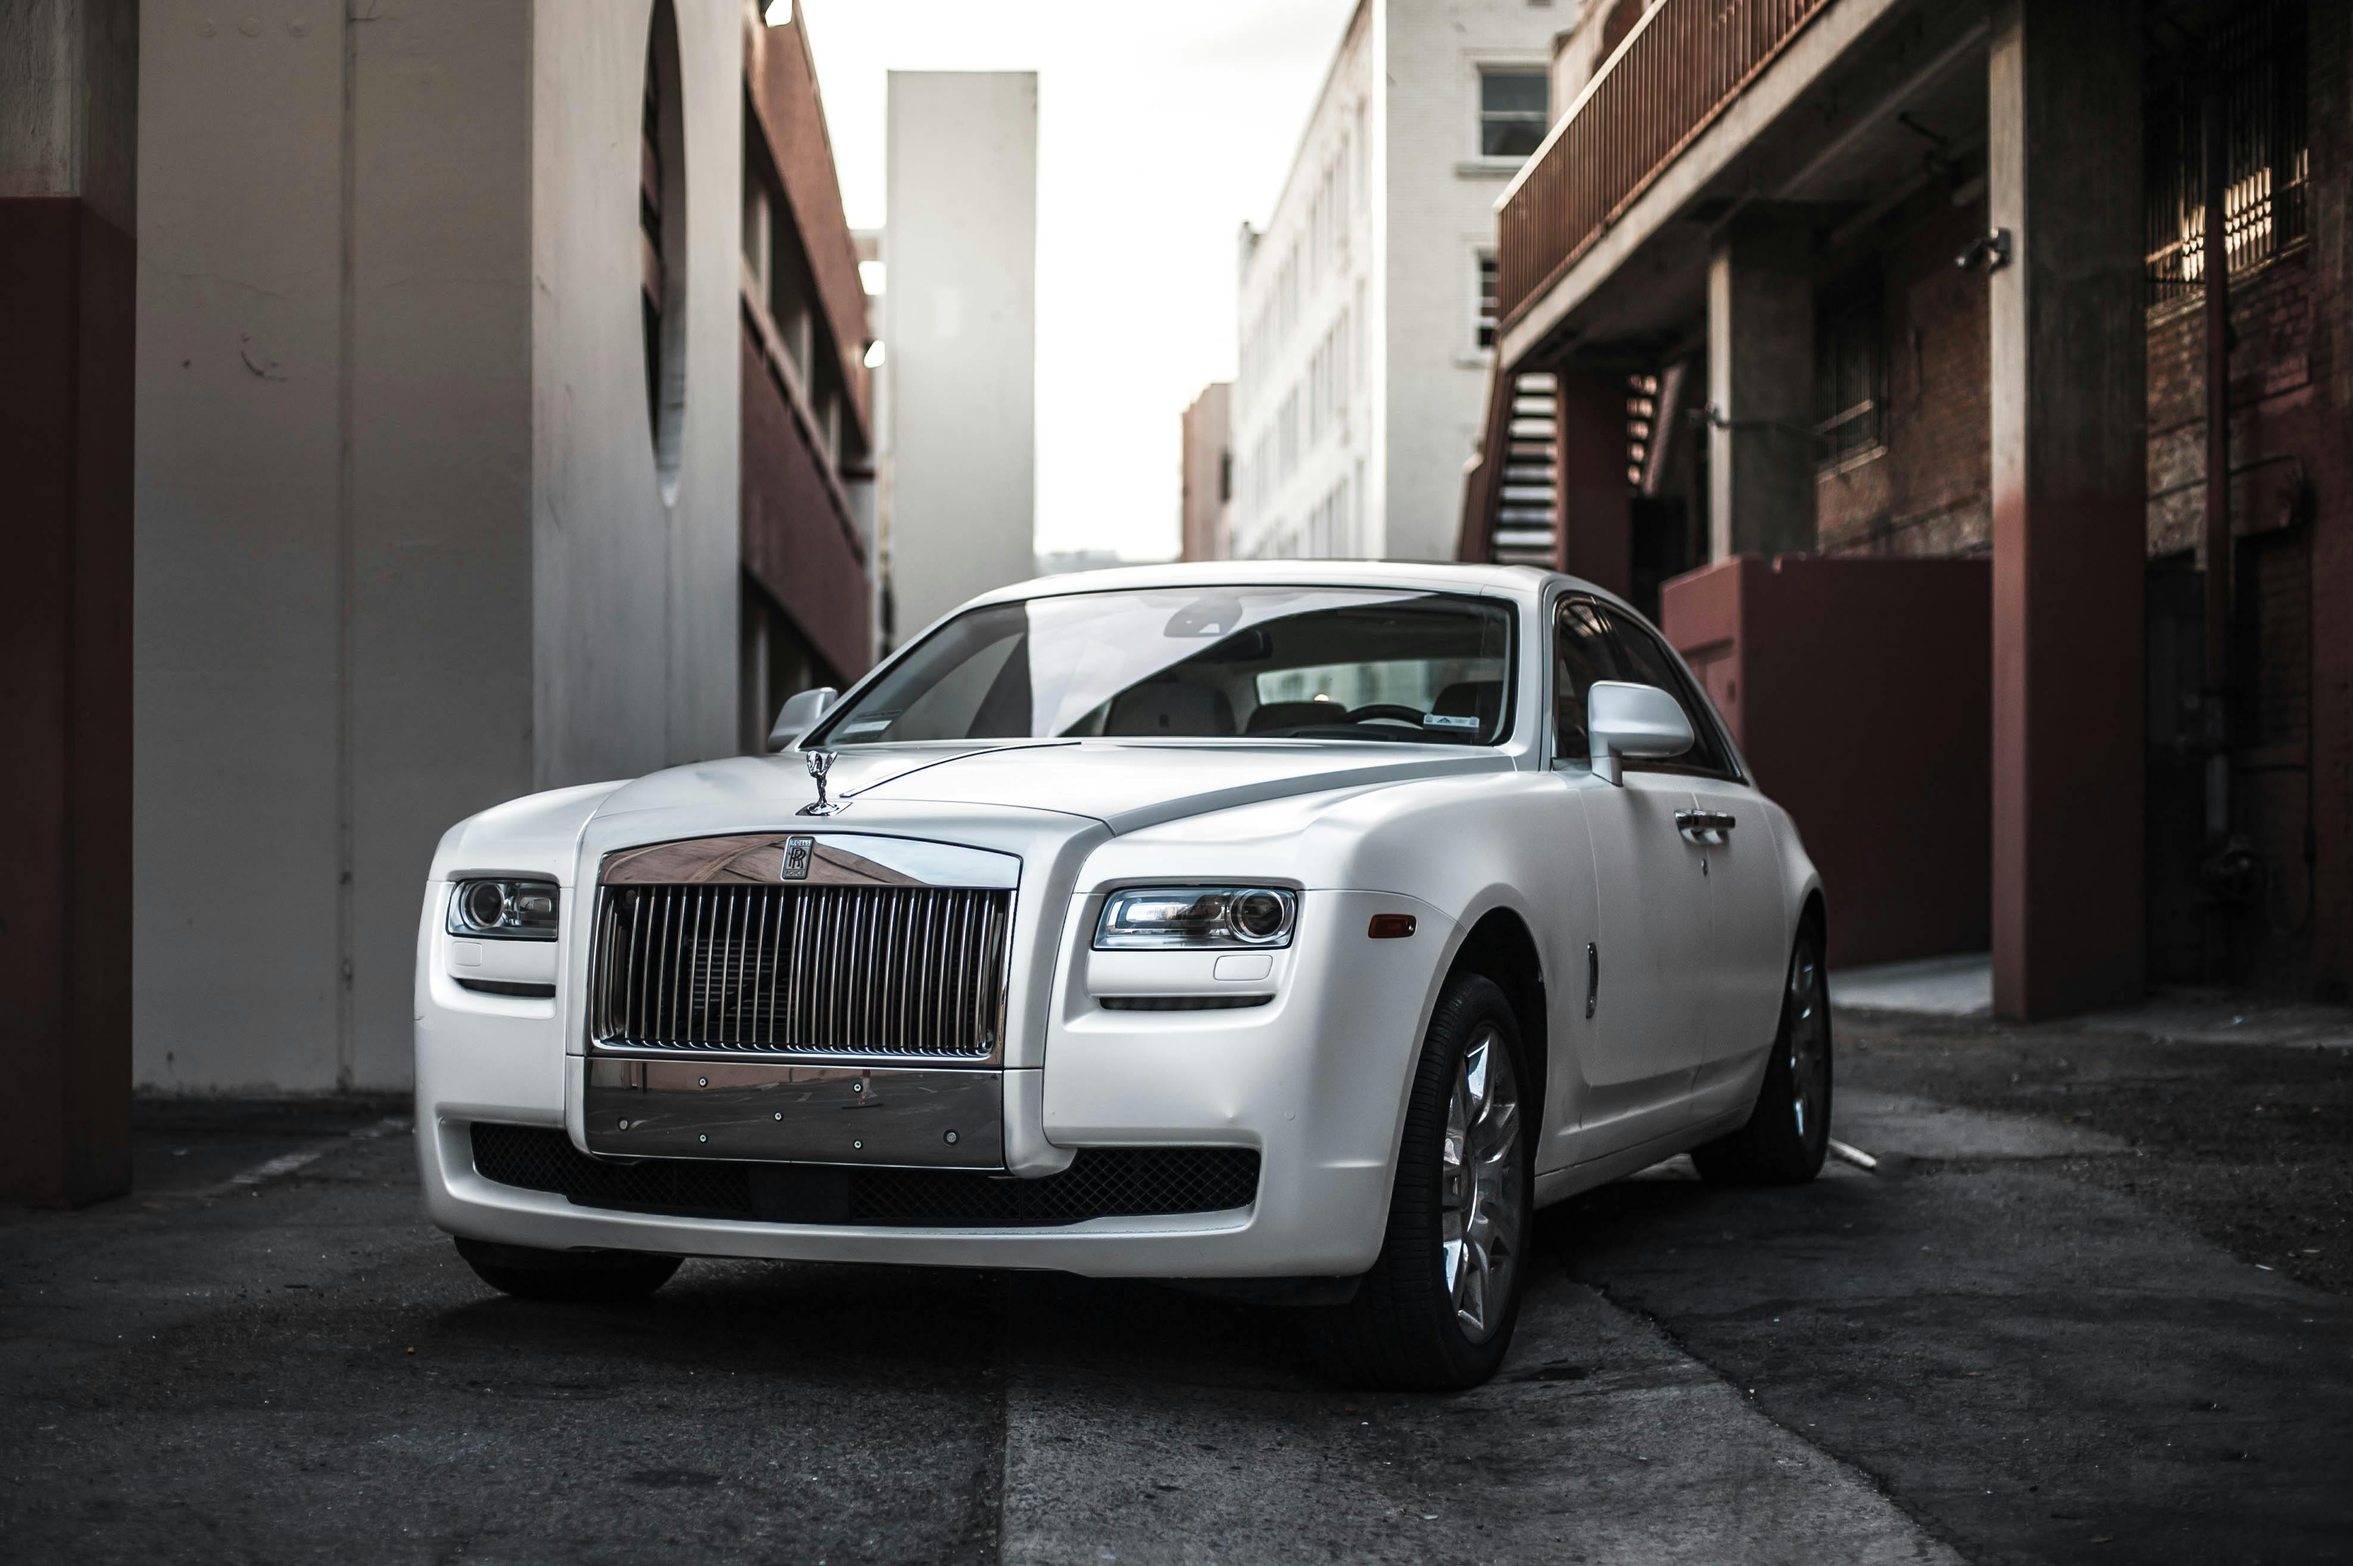
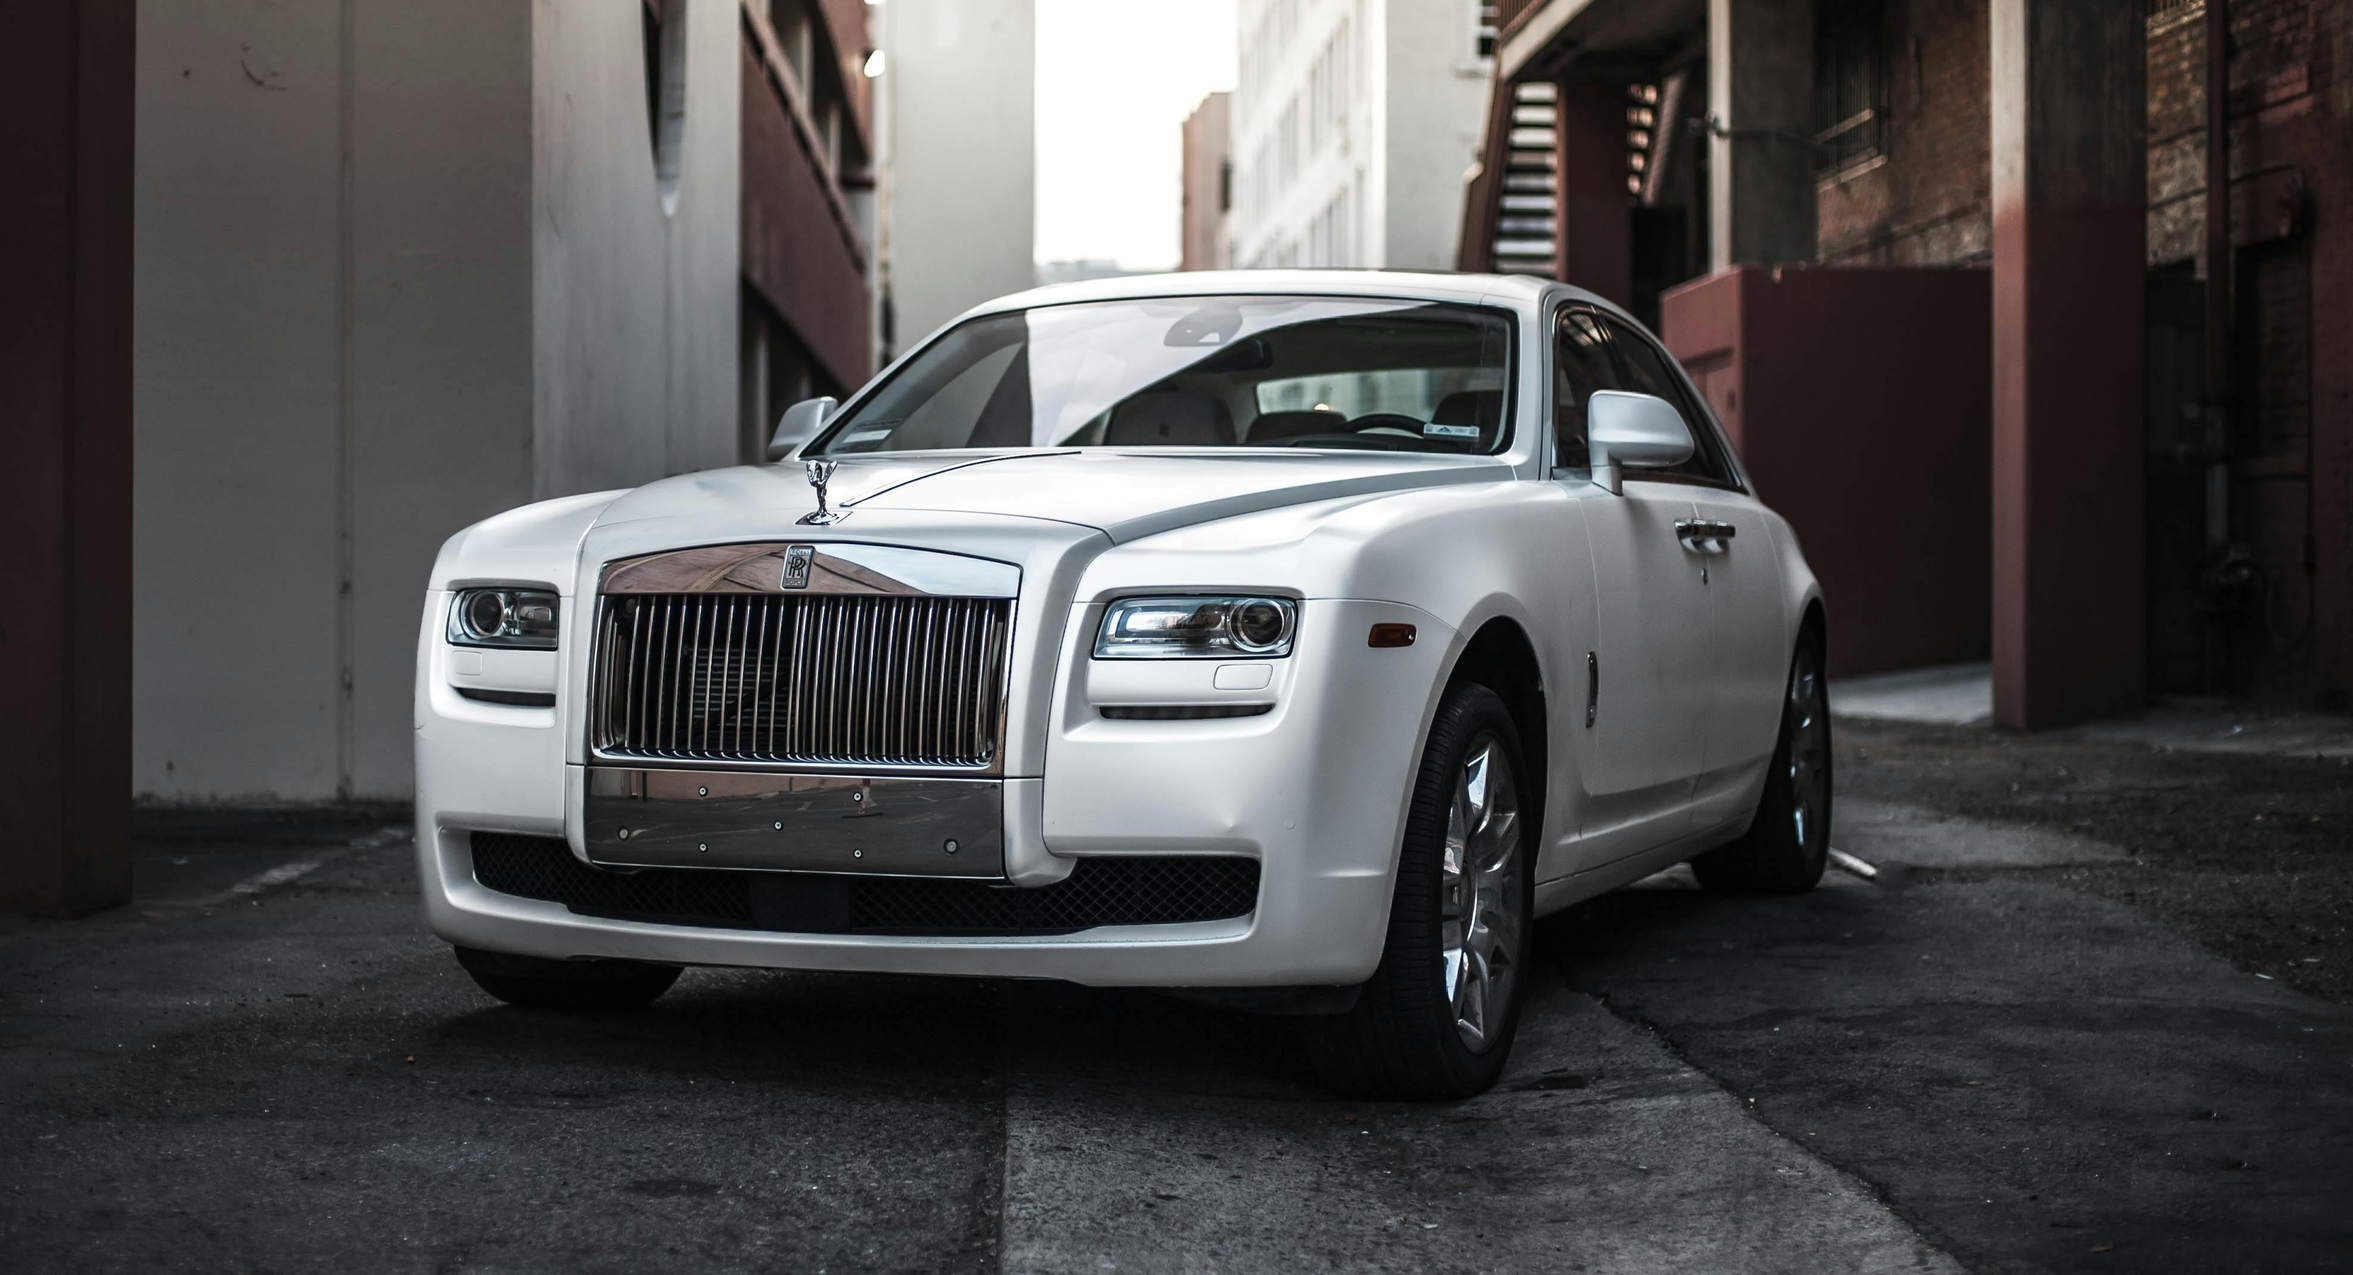
navbar and about section added

diff --git a/Bootstrap/project-1/index.html b/Bootstrap/project-1/index.html
@@ -3,7 +3,7 @@
   <head>
     <meta charset="utf-8" />
     <meta name="viewport" content="width=device-width, initial-scale=1" />
-    <title>Bootstrap demo</title>
+    <title>LuxWheels</title>
     <link
       href="https://cdn.jsdelivr.net/npm/bootstrap@5.3.8/dist/css/bootstrap.min.css"
       rel="stylesheet"
@@ -17,7 +17,7 @@
       <header>
         <nav class="navbar navbar-expand-lg bg-dark">
           <div class="container">
-            <a class="navbar-brand" href="#">Cars</a>
+            <a class="navbar-brand" href="#">LuxWheels</a>
             <button
               class="navbar-toggler"
               type="button"
@@ -32,9 +32,7 @@
             <div class="collapse navbar-collapse" id="navbarSupportedContent">
               <ul class="navbar-nav ms-auto mb-2 mb-lg-0">
                 <li class="nav-item">
-                  <a class="nav-link " aria-current="page" href="#"
-                    >Home</a
-                  >
+                  <a class="nav-link" aria-current="page" href="#">Home</a>
                 </li>
                 <li class="nav-item">
                   <a class="nav-link" href="#">About</a>
@@ -75,7 +73,11 @@
 
     <main>
       <section id="home">
-        <div id="carouselExampleCaptions" class="carousel slide">
+        <div
+          id="carouselExampleCaptions"
+          class="carousel slide"
+          data-bs-ride="carousel"
+        >
           <div class="carousel-indicators">
             <button
               type="button"
@@ -99,30 +101,41 @@
             ></button>
           </div>
           <div class="carousel-inner">
-            <div class="carousel-item active">
-              <img src="./asset/rolls.jpg"  alt="g-wagon"  class="img-fluid" />
+            <div class="carousel-item active" data-bs-interval="5000">
+              <img src="./asset/dodge.jpg" alt="dodge" class="img-fluid" />
               <div class="carousel-caption d-none d-md-block">
-                <h5>First slide label</h5>
+                <h5>Unleash Pure Muscle</h5>
                 <p>
-                  Some representative placeholder content for the first slide.
+                  Feel the raw power of the Dodge Challenger — an American
+                  muscle icon built for adrenaline, dominance, and bold
+                  performance on every road.
                 </p>
               </div>
             </div>
-            <div class="carousel-item">
-              <img src="./asset/dodge.jpg"  alt="dodge" class="img-fluid" />
+            <div class="carousel-item" data-bs-interval="5000">
+              <img
+                class="rolls"
+                src="./asset/rolls.jpg"
+                alt="rolls"
+                class="img-fluid"
+              />
               <div class="carousel-caption d-none d-md-block">
-                <h5>Second slide label</h5>
+                <h5>The Ultimate Symbol of Luxury</h5>
                 <p>
-                  Some representative placeholder content for the second slide.
+                  Experience unmatched elegance and prestige with Rolls-Royce.
+                  Crafted for those who demand absolute comfort, refinement, and
+                  class.
                 </p>
               </div>
             </div>
-            <div class="carousel-item">
-              <img src="./asset/m5.jpg"  alt="m5" class="img-fluid" />
+            <div class="carousel-item" data-bs-interval="5000">
+              <img src="./asset/m5.jpg" alt="m5" class="img-fluid" />
               <div class="carousel-caption d-none d-md-block">
-                <h5>Third slide label</h5>
+                <h5>Performance Meets Precision</h5>
                 <p>
-                  Some representative placeholder content for the third slide.
+                  The BMW M5 delivers supercar performance with executive luxury
+                  — perfect for those who want speed, control, and
+                  sophistication in one drive.
                 </p>
               </div>
             </div>
@@ -145,6 +158,55 @@
             <span class="carousel-control-next-icon" aria-hidden="true"></span>
             <span class="visually-hidden">Next</span>
           </button>
+        </div>
+      </section>
+      <section id="about">
+        <h1 class="text-center m-2">About</h1>
+        <div class="container">
+          <div class="row m-5">
+            <div class="col-12 col-md-6">
+              <img
+                src="./asset/neon-car-paradise-stockcake.jpg"
+                class="img-thumbnail rounded-5 about-img"
+                alt="showroom"
+              />
+            </div>
+            <div class="col-12 col-md-6 about-text mt-4   ">
+              <p>
+                LuxWheels is a premium luxury car rental service designed for
+                individuals who value elegance, performance, and exclusivity. We
+                specialize in offering a carefully curated fleet of world-class
+                vehicles, ranging from powerful muscle cars to ultra-luxury and
+                high-performance sedans.
+              </p>
+              <p>
+                Founded with a passion for automobiles and exceptional service,
+                LuxWheels was created to redefine the way luxury cars are
+                rented. Every vehicle in our collection is meticulously
+                maintained to meet the highest standards of safety, comfort, and
+                style.
+              </p>
+              <p>
+                At LuxWheels, we believe that true luxury lies in the details.
+                From seamless booking to personalized customer support, our goal
+                is to deliver an effortless and memorable experience. Whether
+                you are attending a corporate event, celebrating a special
+                occasion, or simply indulging in a premium driving experience,
+                we ensure every journey feels extraordinary.
+              </p>
+              <p>
+                Our commitment to transparency, reliability, and customer
+                satisfaction sets us apart. With flexible rental plans,
+                competitive pricing, and 24/7 support, LuxWheels makes luxury
+                accessible without compromise.
+              </p>
+
+              <h5>
+                LuxWheels — where performance meets prestige, and every drive
+                becomes an experience.
+              </h5>
+            </div>
+          </div>
         </div>
       </section>
     </main>

diff --git a/Bootstrap/project-1/style.css b/Bootstrap/project-1/style.css
@@ -21,3 +21,12 @@ body{
     color: aquamarine;
 }
 
+.carousel-item img{
+    object-fit: cover;
+    max-height: 80vh;
+    width: 100%;
+}
+
+.about-text {
+    line-height: 2;
+}
